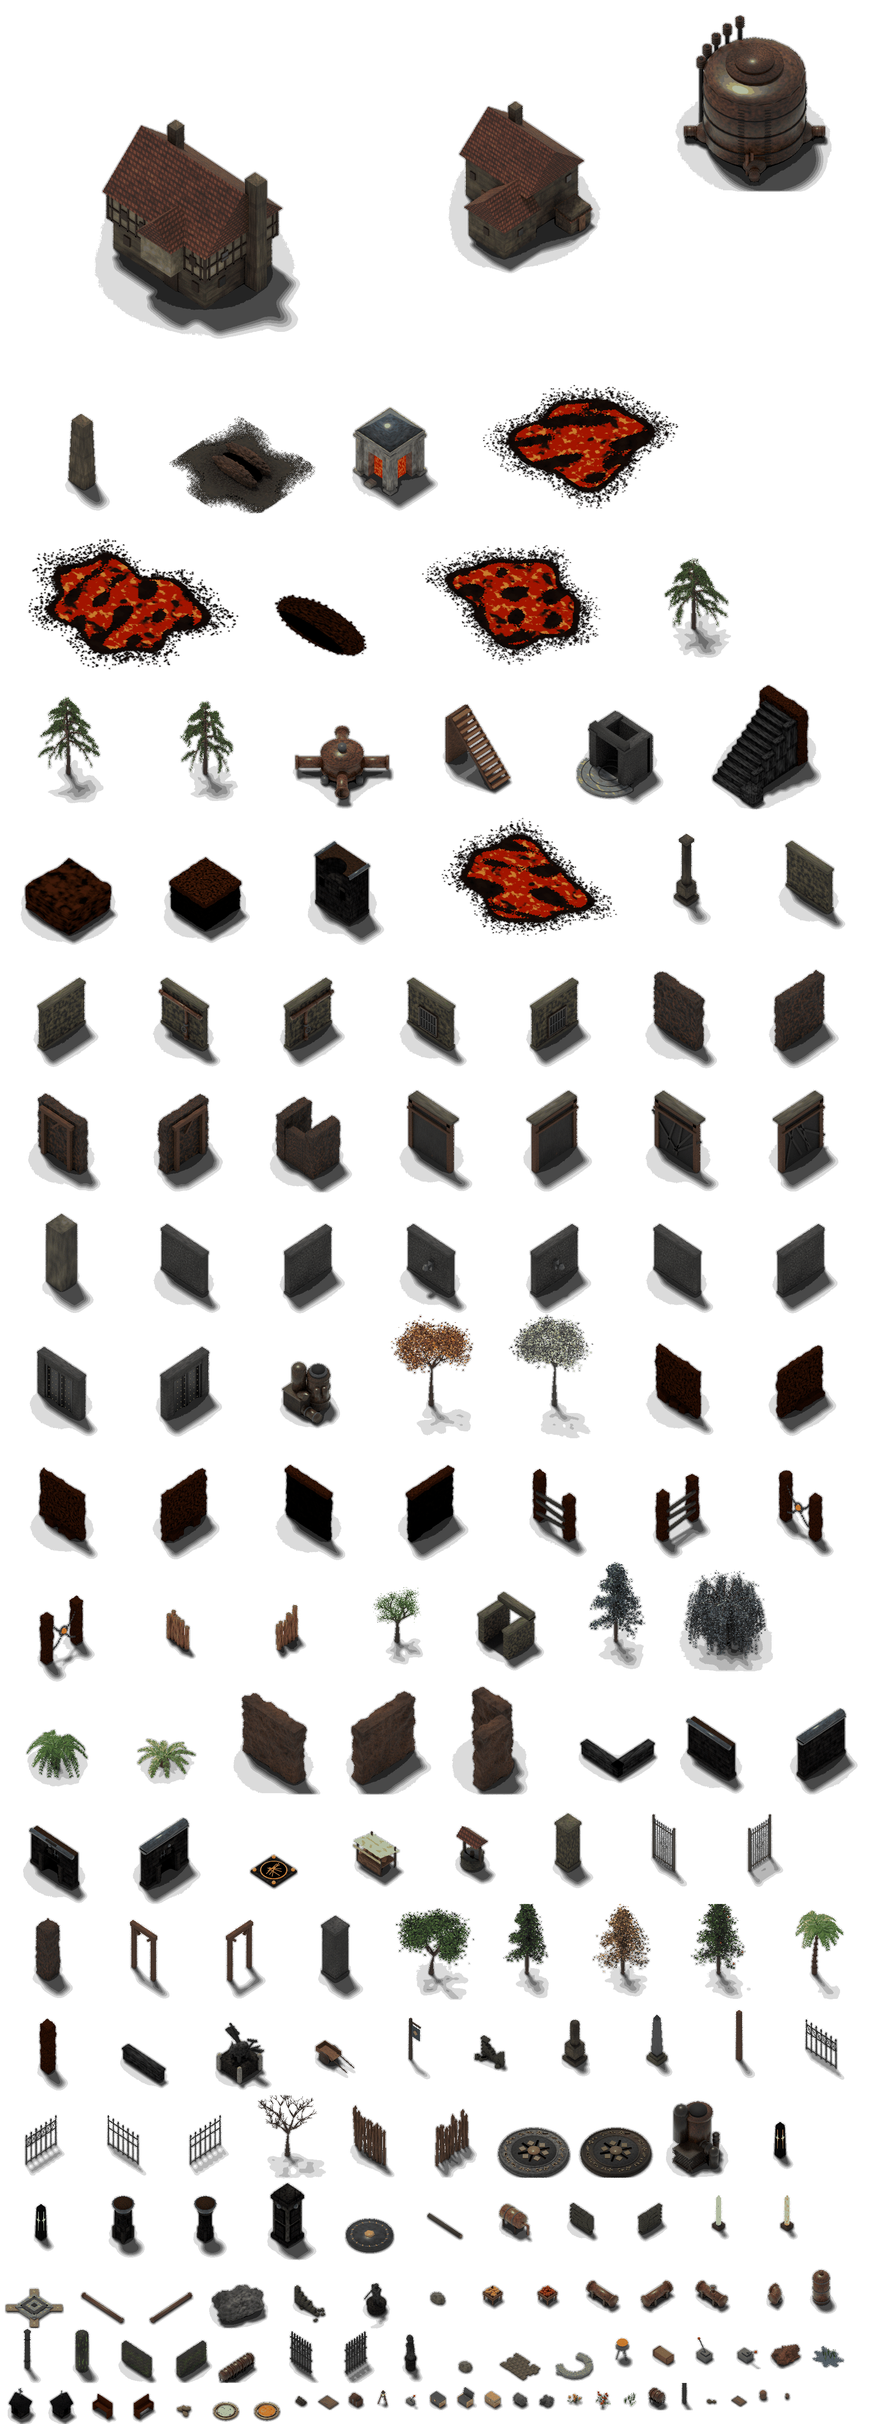
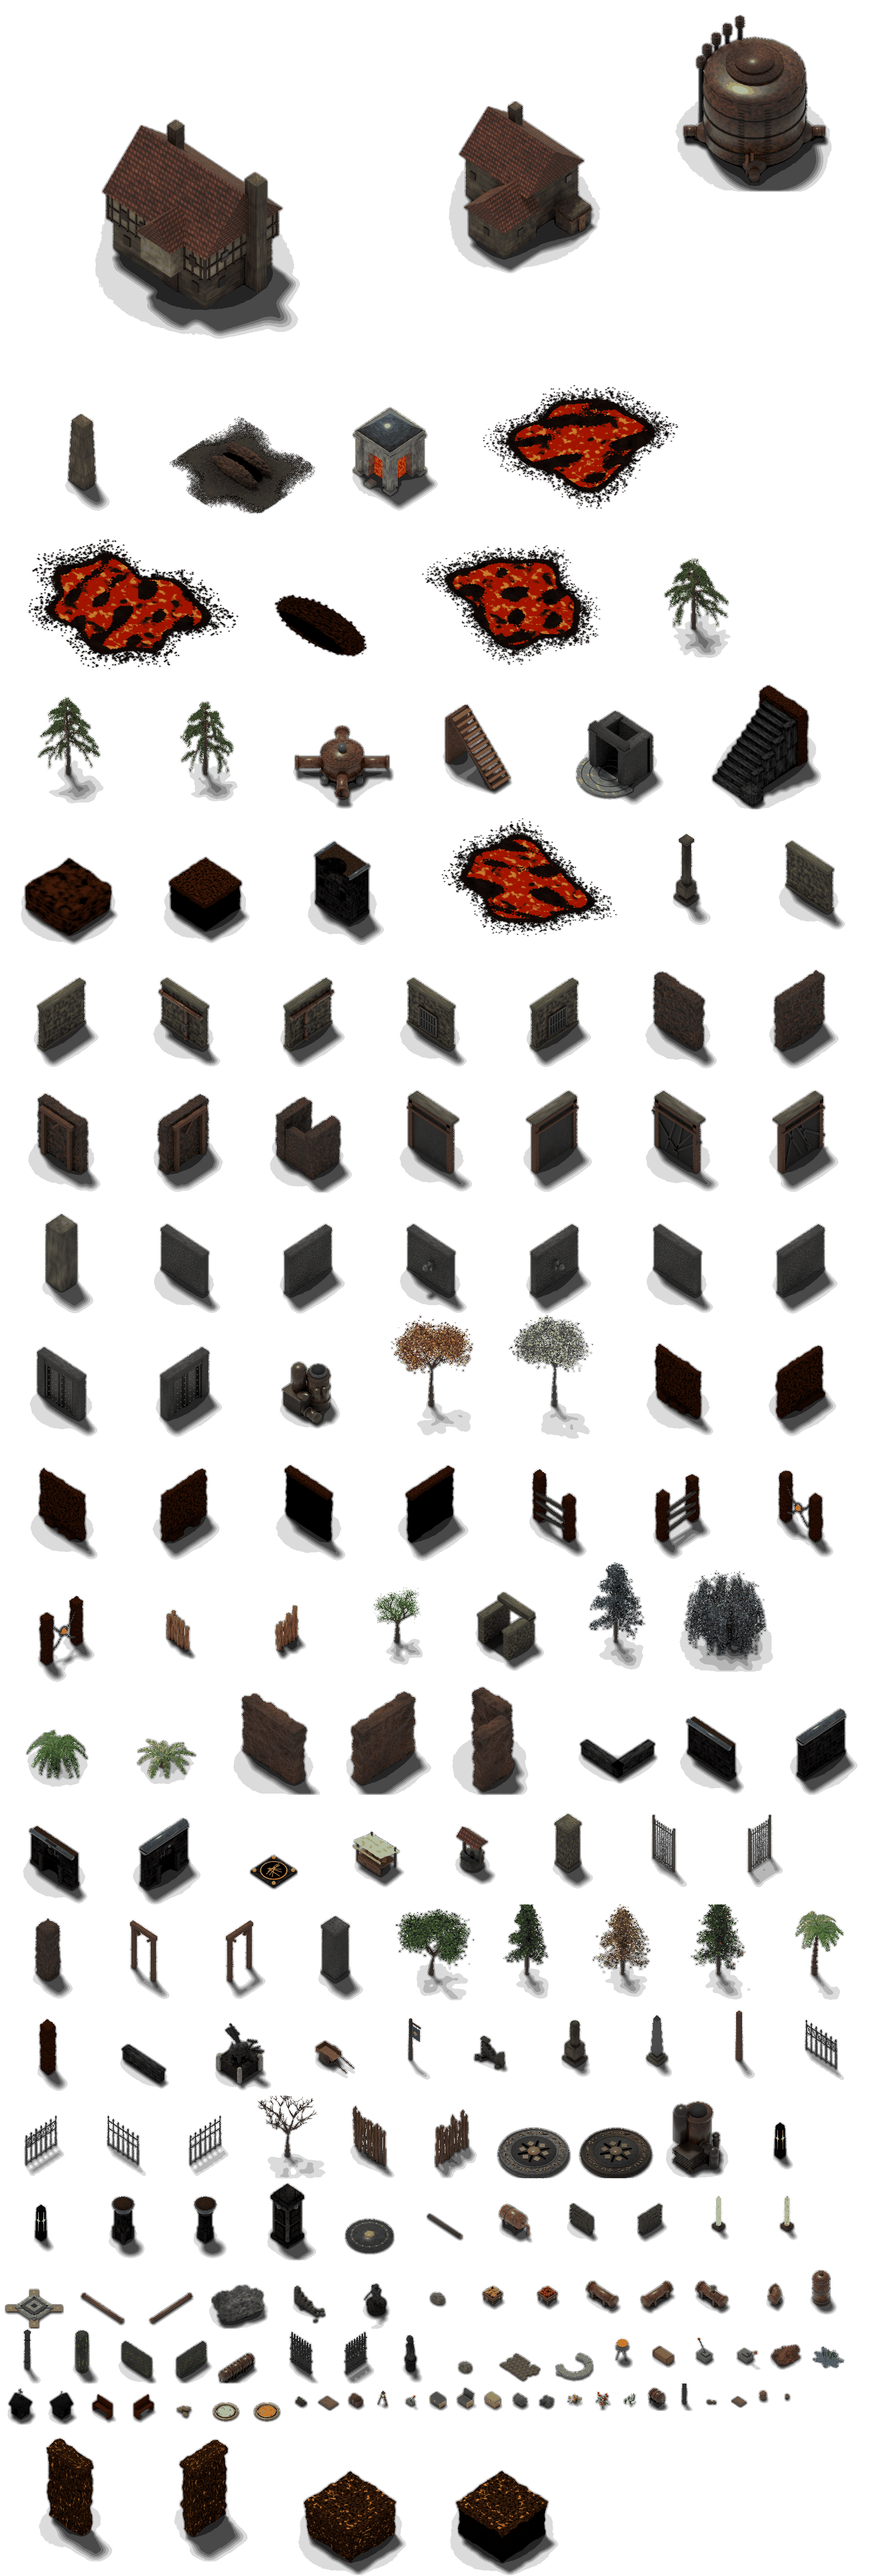
Model the deep caves' tall rock faces and broad blocks
The deep cave banks build their gorges from tall, thick faces of rock
and broad flat-topped blocks, which none of our props matched. deep.py
now renders earth_tall_x/y, earth_block and earth_drop in a browner,
flecked earth, and skin.txt draws the deep banks' pieces 55-64 with
them. tools/art/add_props.py adds new renders to content's props sheet
without rebuilding the whole pack. The darkest cave floor (map03) is
drawn with the deep caves' brown earth instead of grey gravel.

Claude-Session: https://claude.ai/code/session_01J6E6pf9ENVzRHUeLqX1c35

diff --git a/tools/art/deep.py b/tools/art/deep.py
@@ -26,12 +26,16 @@ from town import IRON, _mats, ball, box, cyl, mat  # noqa: E402
 
 EARTHWALL = dict(colour=(0.30, 0.14, 0.05), dark=(0.025, 0.01, 0.005), scale=22, detail=14, rough=1.0, bump=1.8,
                  band=(0.4, 0.72), spot=0.25, spot_colour=(0.70, 0.36, 0.10))
+# The tall faces and blocks: browner, with lit orange flecks.
+GORGE = dict(EARTHWALL, colour=(0.28, 0.16, 0.08), scale=26, detail=16, bump=2.6, spot=0.4, spot_colour=(0.72, 0.44, 0.18))
 SHADOW = dict(colour=(0.035, 0.022, 0.015), dark=(0.01, 0.006, 0.004), scale=14, rough=1.0, bump=0.6)
 RAIL = dict(colour=(0.40, 0.39, 0.36), dark=(0.10, 0.10, 0.09), scale=6, bump=0.6, stretch=(8, 1, 1), grime=0.5)
 STONE = dict(colour=(0.30, 0.30, 0.31), dark=(0.07, 0.07, 0.08), scale=6, bump=0.8, grime=0.6,
              bricks=dict(width=0.9, height=0.45, mortar=0.04, vary=0.75, joint=0.3))
 
 WALL_L, WALL_H = 6.4, 6.6
+TALL_L, TALL_H = 5.0, 9.6   # the deep caves' tall rock faces
+BLOCK = 6.8                 # and their broad blocks
 
 
 def glow(name, colour, dark, strength, **kw):
@@ -61,6 +65,25 @@ def earth_wall(along_y=False, seed=1, dark=False):
             o.rotation_euler.z = rng.uniform(-0.3, 0.3)
     if along_y:
         turn(math.pi / 2)
+
+
+def earth_tall(along_y=False, seed=11):
+    """A tall, thick face of rock at a deep cavern's edge, standing above
+    the floor like the side of a gorge, with a ragged lit top."""
+    m = mat("gorge", GORGE)
+    rough(solid(box((TALL_L, 1.6, TALL_H), (0, 0.3, TALL_H / 2), m)), 0.9, 1.5, seed, cuts=30)
+    rough(solid(box((TALL_L + 0.3, 2.0, 0.8), (0, 0.3, TALL_H), m)), 0.6, 0.9, seed + 1, cuts=14)
+    if along_y:
+        turn(math.pi / 2)
+
+
+def earth_block(seed=12, dark=False):
+    """A broad block of rock between cavern passages, seen from its corner:
+    two earth faces (or, dark, the black drop below the floor) under a
+    ragged earth top."""
+    m = mat("gorge", GORGE)
+    rough(solid(box((BLOCK, BLOCK, 4.2), (0, 0, 2.1), mat("shadow", SHADOW) if dark else m)), 0.8, 1.5, seed, cuts=26)
+    rough(solid(box((BLOCK + 0.3, BLOCK + 0.3, 0.8), (0, 0, 4.3), m)), 0.6, 0.9, seed + 1, cuts=18)
 
 
 def earth_post(seed=3):
@@ -238,6 +261,10 @@ PROPS = {
     "shadow_x": (lambda: earth_wall(dark=True, seed=5), 288),
     "shadow_y": (lambda: earth_wall(along_y=True, dark=True, seed=6), 288),
     "earth_post": (earth_post, 224),
+    "earth_tall_x": (earth_tall, 320),
+    "earth_tall_y": (lambda: earth_tall(along_y=True, seed=13), 320),
+    "earth_block": (earth_block, 352),
+    "earth_drop": (lambda: earth_block(seed=14, dark=True), 352),
     "rail_gate_x": (rail_gate, 288),
     "rail_gate_y": (lambda: rail_gate(along_y=True, seed=6), 288),
     "chain_gate_x": (chain_gate, 288),

diff --git a/tools/art/add_props.py b/tools/art/add_props.py
@@ -1,0 +1,56 @@
+#!/usr/bin/env python3
+"""Add newly rendered props to content/'s props sheet without rebuilding
+the whole pack: each picture goes on a strip below the sheet, as a named
+frame, and the sheet is shrunk back to 256 colours. A prop already on the
+sheet is replaced (its old picture stays, unused, until the next full
+build_pack.py run).
+
+    python3 tools/art/add_props.py <render folder> <listing> [prop ...]
+
+e.g. `add_props.py /tmp/art/deep /tmp/art/deep/deep.txt earth_tall_x`,
+where the listing is the `<name> <anchor x> <anchor y>` file the art
+scripts write. Needs numpy and Pillow.
+"""
+
+import sys
+from pathlib import Path
+
+from PIL import Image
+
+HERE = Path(__file__).resolve().parent
+sys.path.insert(0, str(HERE))
+from build_pack import cropped  # noqa: E402
+from shrink import shrink  # noqa: E402
+
+SHEET = HERE.parent.parent / "content" / "Map" / "props.sheet"
+
+
+def main():
+    folder, listing = Path(sys.argv[1]), Path(sys.argv[2])
+    anchors = {n: (int(x), int(y)) for n, x, y in (l.split() for l in listing.read_text().split("\n") if l)}
+    names = sys.argv[3:] or list(anchors)
+    lines = SHEET.read_text().split("\n")
+    image_name = next(l[6:].strip() for l in lines if l.startswith("image="))
+    sheet = Image.open(SHEET.parent / image_name).convert("RGBA")
+    pieces = [(n, *cropped(folder / f"{n}.png", *anchors[n])) for n in names]
+    # Lay the new pictures out left to right on one strip.
+    width = max(sheet.width, sum(im.width + 2 for _, im, _, _ in pieces))
+    strip = max(im.height for _, im, _, _ in pieces) + 2
+    grown = Image.new("RGBA", (width, sheet.height + strip))
+    grown.paste(sheet, (0, 0))
+    x = 0
+    lines = [l for l in lines if not (l.startswith("frame=") and l.split(",")[-1] in names)]
+    while lines and not lines[-1]:
+        lines.pop()
+    for name, im, ax, ay in pieces:
+        grown.paste(im, (x, sheet.height))
+        lines.append(f"frame={x},{sheet.height},{im.width},{im.height},{ax},{ay},{name}")
+        x += im.width + 2
+    grown.save(SHEET.parent / image_name)
+    SHEET.write_text("\n".join(lines) + "\n")
+    shrink(SHEET.parent / image_name)
+    print(f"added {', '.join(names)} to {SHEET}")
+
+
+if __name__ == "__main__":
+    main()

diff --git a/docs/content.md b/docs/content.md
@@ -258,6 +258,11 @@ font) are kept in content/ and rebuilt on their own:
 Their order is the ITEMS list in items.py; `content/items.txt` is
 written by hand.
 
+A few new props can be added to the existing props sheet without
+rebuilding everything: render them, then
+
+    python3 tools/art/add_props.py /tmp/art/deep /tmp/art/deep/deep.txt earth_tall_x earth_tall_y
+
 ## Importing Flare
 
 `tools/content/import_flare.py` builds a pack from
